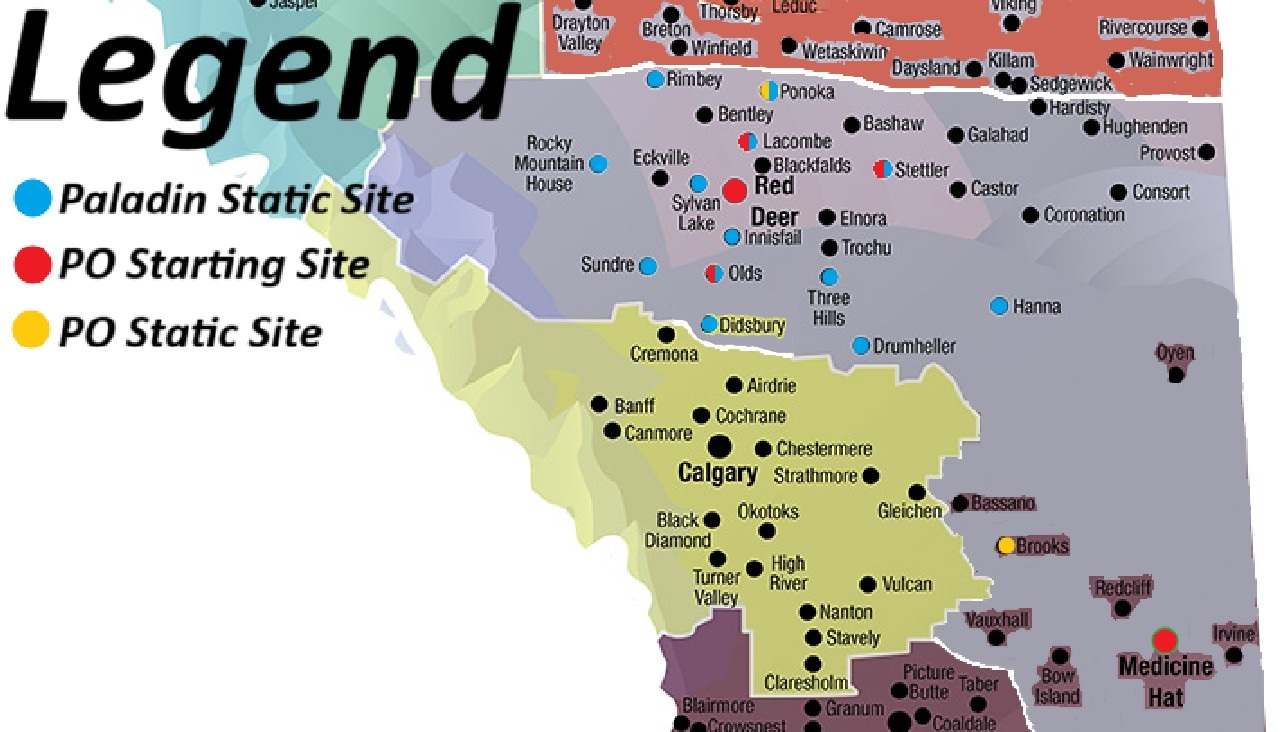
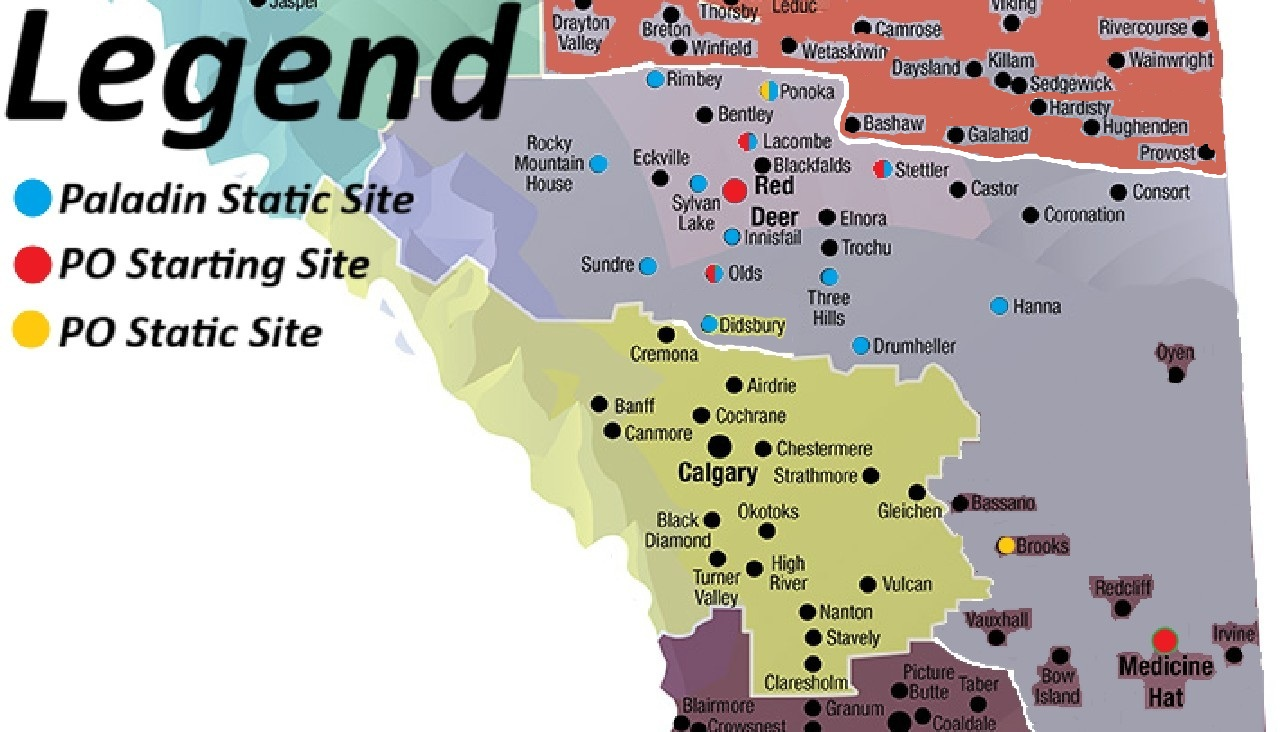
Add files via upload

Changed region(s): [[0.6216, 0.0902, 0.9635, 0.2404]]

diff --git a/Common Duties.html b/Common Duties.html
@@ -31,30 +31,26 @@
   <main class="container essentials-page">
     <section id="contact" class="essentials-hero">
       <p class="eyebrow">Quick Reference</p>
-      <h2>Essential Information</h2>
-      <p>Common day-to-day notes for pay, benefits, uniforms, equipment, learning requirements, and where to find key systems.</p>
+      <h2>Information you should know</h2>
+      <p>Explaining Pay, Flex Account, Benefits, Allowances, Unifroms, Etc </p>
     </section>
 
     <section class="essentials-dashboard" aria-label="Essentials quick cards">
       <article class="essentials-mini-card">
-        <span class="mini-icon">$</span>
-        <h3>Pay</h3>
-        <p>Pay periods, overtime, shift premiums, and stat holiday notes.</p>
+        <h4>F Drive</h4>
+        <p>Schedules, pass-ons, and basic operational information.</p>
       </article>
       <article class="essentials-mini-card">
-        <span class="mini-icon">+</span>
-        <h3>Benefits</h3>
-        <p>Vacation, personal leave, sick time, flex spending, and allowances.</p>
+        <h4>ePeople</h4>
+        <p>Pay, T4s, banked time, vacation, sick time, and personal information.</p>
       </article>
       <article class="essentials-mini-card">
-        <span class="mini-icon">✓</span>
-        <h3>Equipment</h3>
-        <p>Issued uniform/equipment, replacement process, and returns.</p>
+        <h4>Teams</h4>
+        <p>Conference calls, pre-trip inspection information, receipts, and shared updates.</p>
       </article>
       <article class="essentials-mini-card">
-        <span class="mini-icon">i</span>
-        <h3>ROL</h3>
-        <p>Annual, three-year, and one-time Required Organizational Learning.</p>
+        <h4>MyLearningLink</h4>
+        <p>Required learning, courses, ROL tracking, and training records.</p>
       </article>
     </section>
 
@@ -80,8 +76,10 @@
             </article>
             <article class="info-box">
               <h4>Overtime</h4>
-              <p>Overtime is based on averaging across set periods. You need over 120 hours across three working sets.</p>
-              <p class="note">IE: Working many shifts in a row does not always mean overtime if the total threshold is not met.</p>
+              <p>Overtime is based on averaging across set periods. You need over 28 shifts across 4 pay periods. 
+                The only exception is working more then 8 (so 9 or more) shifts in a single pay period. 
+                OT is paid at 2x base pay per hour (not including shift differentials/premiums) </p>
+              <p class="note">IE: Working many shifts in a row does not mean overtime unless one of these threshold are met.</p>
             </article>
           </div>
 
@@ -93,7 +91,8 @@
             </div>
             <div class="callout-box">
               <h4>Stat Holidays</h4>
-              <p>Stat days are paid at an increased rate, not including shift differential. Full-time staff usually bank the time, while casual staff are usually paid out.</p>
+              <p>Stat days are paid at an increased rate, not including shift differential. Full-time meambers get 7.75 hours banked 
+                every STAT day even if not worked that STAT, both full-time and casual meambers are paid out if the STAT is worked.</p>
               <p class="note">STAT rate is 1.5x per hour, Super STAT (Christmas Day and the August Civic Holiday) is 2x per hour</p>
             </div>
           </div>
@@ -123,12 +122,14 @@
               <p>Flex spending now $1,200, you decide how much goes into health spending and wellness spending. 
                 Health covers eligible medical costs (dental, massages, chiropractor etc) to cover the rest of what is short or max by blue cross. 
                 while wellness covers approved wellness-related items or services (Bikes, Gym Equipment, Computer stuff oddly enough). 
-                You choose how much you allocate into Health or Wellness, if not specified, it splits 50/50.</p>
+                You choose how much you allocate into Health or Wellness, if not specified, it splits 50/50 to both accounts. 
+                It can also got into a set up TFSA or RRSP is designated.</p>
               <p class="note">it resets annually (Jan 1st), but does not roll over. Use it or lose it</p>
             </article>
             <article class="info-box">
               <h4>Allowances</h4>
-              <p>Boot allowance can usually be claimed every two years. Bike patrol members may also have a separate shoe allowance. Submit receipts through the proper process.</p>
+              <p>Boot allowance can used every two years. Meambers who have completed the bike course my also claim bike shoes. 
+                This is can be done every three years and covers $300, Submit receipts through the proper process.</p>
               <p class="note">Allowance is $250</p>
             </article>
           </div>
@@ -264,28 +265,6 @@
               </ul>
             </article>
             <p class="note">First Aid (no longer required at the moment)</p>
-          </div>
-        </div>
-
-        <h3>Where to Find Things</h3>
-        <div class="accordion-panel">
-          <div class="quick-links-grid">
-            <article class="quick-link-card">
-              <h4>F Drive</h4>
-              <p>Schedules, pass-ons, and basic operational information.</p>
-            </article>
-            <article class="quick-link-card">
-              <h4>ePeople</h4>
-              <p>Pay, T4s, banked time, vacation, sick time, and personal information.</p>
-            </article>
-            <article class="quick-link-card">
-              <h4>Teams</h4>
-              <p>Conference calls, pre-trip inspection information, receipts, and shared updates.</p>
-            </article>
-            <article class="quick-link-card">
-              <h4>MyLearningLink</h4>
-              <p>Required learning, courses, ROL tracking, and training records.</p>
-            </article>
           </div>
         </div>
       </div>

diff --git a/Rurals.html b/Rurals.html
@@ -35,10 +35,10 @@
     </section>
 
     <section class="essentials-dashboard" aria-label="CZ Mobile quick cards">
-      <article class="essentials-mini-card"><h3>Centennial Centre</h3><p>2x Morning 0700-1900, Evening 1500-0300, Night 1900-0700</p></article>
-      <article class="essentials-mini-card"><h3>Ponoka General</h3><p>Static from 10am - 10pm?</p></article>
-      <article class="essentials-mini-card"><h3>Brooks</h3><p>Static from ???</p></article>
-      <article class="essentials-mini-card"><h3>Medicine Hat?</h3><p>Not sure yet.</p></article>
+      <article class="essentials-mini-card"><h3>Centennial Centre Static</h3><p>2x Morning 0700-1900, Evening 1300-0100, Night 1900-0700</p></article>
+      <article class="essentials-mini-card"><h3>Ponoka General Static</h3><p>Modified Morning from 0900-2100</p></article>
+      <article class="essentials-mini-card"><h3>Brooks Static</h3><p>Modified Morning from 0900-2100</p></article>
+      <article class="essentials-mini-card"><h3>Medicine Hat Static</h3><p>Morning 0700-1900, Night 1900-0700</p></article>
     </section>
 
     <section class="about-pg essentials-card">
@@ -78,22 +78,23 @@
             <article class="info-box"><h4>Charlie 1</h4><p>Team Lead / Acting Team Lead</p></article>
             <article class="info-box"><h4>Charlie 2</h4><p>Olds</p></article>
             <article class="info-box"><h4>Charlie 3</h4><p>Red Deer</p></article>
-            <article class="info-box"><h4>Charlie 4</h4><p>Stettler?</p></article>
+            <article class="info-box"><h4>Charlie 4</h4><p>Stettler</p></article>
             <article class="info-box"><h4>Charlie 5</h4><p>Lacombe</p></article>
             <article class="info-box"><h4>Charlie 6</h4><p>Medicine Hat</p></article>
           </div>
         </div>
 
-        <h3>Sites with Guards (Needs to Be Updated)</h3>
+        <h3>Sites with Paladin Coverage</h3>
         <div class="accordion-panel">
           <div class="info-grid three-col">
-            <article class="info-box"><h4>1900-0700</h4><p>Rimbey, Rocky, Drumheller, Hanna, Lacombe, and Didsbury.</p></article>
-            <article class="info-box"><h4>24/7</h4><p>Ponoka.</p></article>
+            <article class="info-box"><h4>24/7</h4><p>Ponoka, Rimbey, Rockey, Innisfail,Sundre, Drumheller</p></article>
+            <article class="info-box"><h4>1900-0700</h4><p>Three Hills, Stettler, Lacombe, Olds, Didsbury</p></article>
+            <article class="info-box"><h4>2200-0600</h4><p>Hannah</p></article>
             <article class="info-box"><h4>Reminder</h4><p>Confirm current coverage through the pass-on, F Drive, or TL if unsure.</p></article>
           </div>
         </div>
 
-        <h3>Team Assignments</h3>
+        <h3>Team Assignments (Unconfirmed)</h3>
         <div class="accordion-panel">
           <div class="info-grid two-col">
             <article class="info-box"><h4>Alpha</h4><p>Blue binders and notebooks.</p></article>

diff --git a/index.html b/index.html
@@ -3,12 +3,20 @@
 <html lang="en">
 <head>
 <script>
-(function() {
-    const password = "AHS@120";
-    let userInput = prompt("Enter password to access this site:");
-    if (userInput !== password) {
-        document.body.innerHTML = "<h1>Access Denied</h1>";
-    }
+(function () {
+    const password = "Alberta";
+    let userInput;
+    do {
+        userInput = prompt("Enter password to access this site:");
+        if (userInput === null) {
+            document.write("<h1>Access Denied</h1>");
+            window.stop();
+            return;
+        }
+        if (userInput !== password) {
+            alert("Incorrect password. Please try again.");
+        }
+    } while (userInput !== password);
 })();
 </script>
   <meta charset="UTF-8" />

diff --git a/Training.html b/Training.html
@@ -29,7 +29,7 @@
   <main class="container essentials-page training-page">
     <section id="contact" class="essentials-hero">
       <p class="eyebrow">Learning</p>
-      <h2>Training</h2>
+      <h2>Training (Work in progress)</h2>
       <p>Use this page for practice discussions, quiz review, annual training reminders, and reference material.</p>
     </section>
 

diff --git a/CCMHBI.html b/CCMHBI.html
@@ -30,7 +30,7 @@
   <main class="container essentials-page">
     <section id="contact" class="essentials-hero">
       <p class="eyebrow">Site Reference</p>
-      <h2>CCMHBI</h2>
+      <h2>CCMHBI (Work in Progress)</h2>
       <p>Site-specific reminders for admissions, safekeeping, shift handover, pass-on, and morgue processes.</p>
     </section>
 
